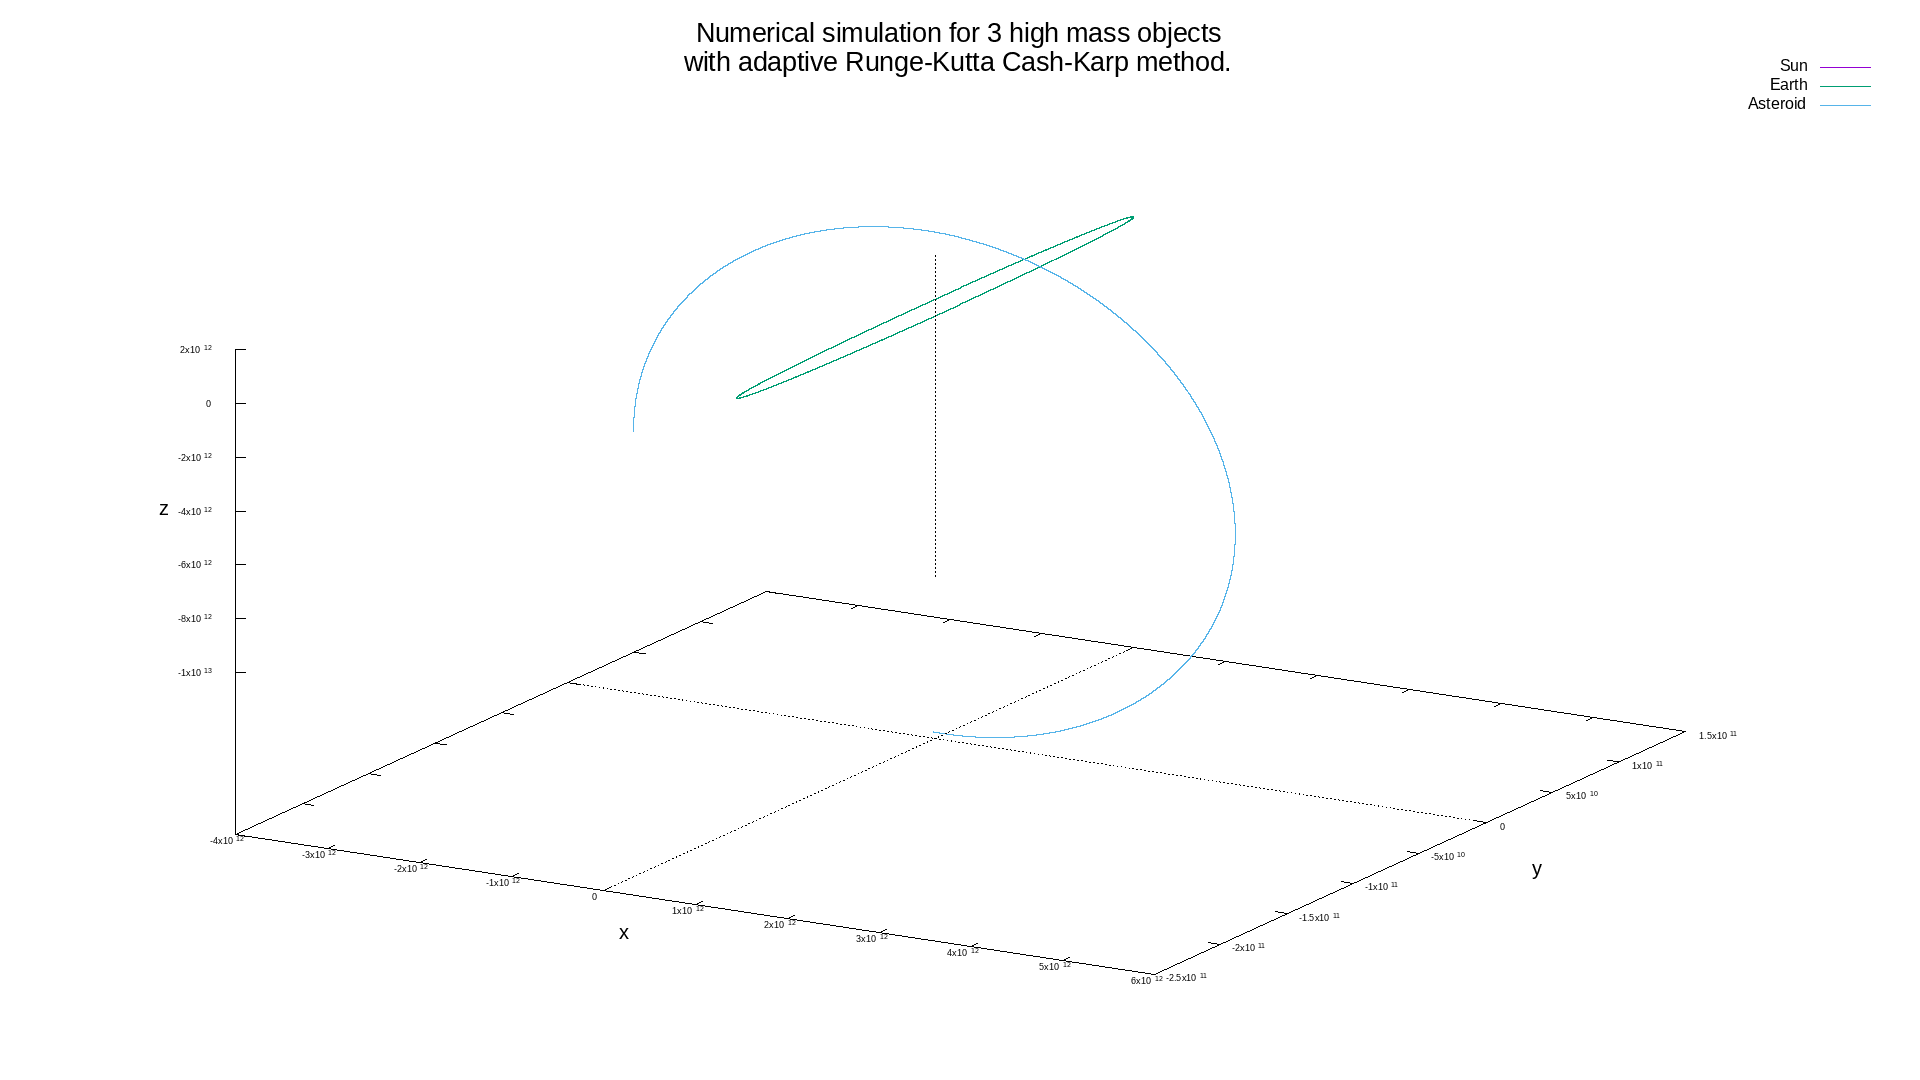
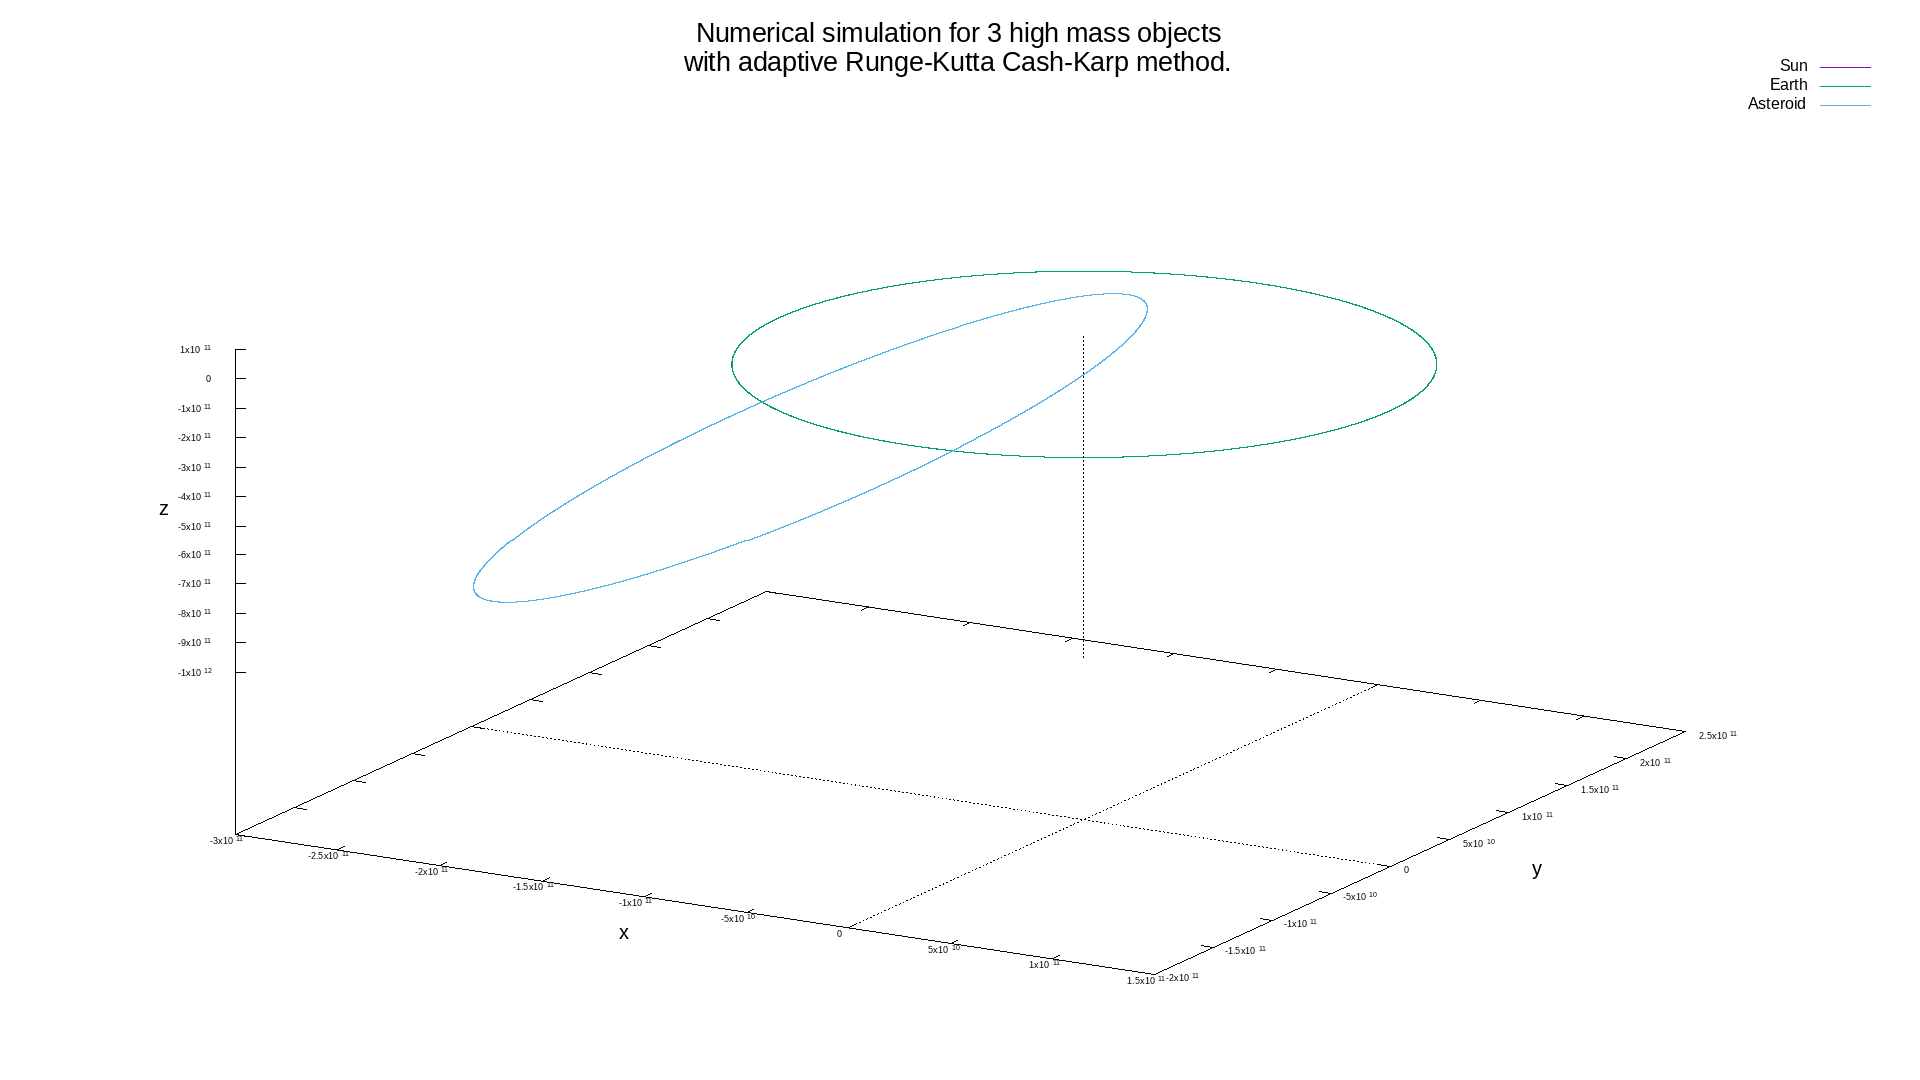
minor changes and closer asteroid

diff --git a/main.cpp b/main.cpp
@@ -1,6 +1,7 @@
 #include "state.hh"
 #include "num_int.hh"
 #include <chrono>
+#include <cstdio>
 
 //....oooOO0OOooo........oooOO0OOooo........oooOO0OOooo........oooOO0OOooo......oooOO0OOooo........oooOO0OOooo........oooOO0OOooo........oooOO0OOooo......
 
@@ -30,8 +31,8 @@ int main(int, char**)
     //average distance of Sun and Jupiter (m)
     const double JUPITER_AVG=7.785e11;
 
-    //average distance of Sun and the inner border of the Oort cloud (m)
-    const double ASTEROID_AVG=1e13;
+    //average distance of Sun and the asteroid (m)
+    const double ASTEROID_AVG=1e12;
 
 //....oooOO0OOooo........oooOO0OOooo........oooOO0OOooo........oooOO0OOooo......oooOO0OOooo........oooOO0OOooo........oooOO0OOooo........oooOO0OOooo......
 
@@ -50,24 +51,20 @@ int main(int, char**)
 
 //....oooOO0OOooo........oooOO0OOooo........oooOO0OOooo........oooOO0OOooo......oooOO0OOooo........oooOO0OOooo........oooOO0OOooo........oooOO0OOooo......
 
-    //2e3 m/s sets a relatively stable orbit for the asteroid
+    //5e3 m/s sets a relatively stable orbit for the asteroid
     //random perturbation will be added for this value
 
     //random number generation
     std::random_device rd{};
     std::mt19937 gen(rd());
-    std::normal_distribution<double> distr(-1000.,-750.);
+    std::normal_distribution<double> distr(-1500.,-2500.);
     const double ASTEROID_V_perturbation=distr(gen);
+    const vector3<double> ASTEROID_V=(ASTEROID_V_perturbation+5e3)*perp_unit_vec(ASTEROID_R);
 
-    //const double ASTEROID_V_perturbation=-1500;
-    const vector3<double> ASTEROID_V=(ASTEROID_V_perturbation+2e3)*perp_unit_vec(ASTEROID_R);
-
-    //const vector3<double> ASTEROID_V{0.,0.,0.};
-    
 //....oooOO0OOooo........oooOO0OOooo........oooOO0OOooo........oooOO0OOooo......oooOO0OOooo........oooOO0OOooo........oooOO0OOooo........oooOO0OOooo......
 
     //RHS for Sun-Earth-Asteroid
-    auto armageddon3=[&](double t,state3<double> s)->state3<double>
+    auto armageddon3=[&](double,state3<double> s)->state3<double>
     {
         double SunToEarth=cube_length_diff(s.SUN_R,s.EARTH_R);
         double SunToAsteroid=cube_length_diff(s.SUN_R,s.ASTEROID_R);
@@ -84,7 +81,7 @@ int main(int, char**)
     };
 
     //RHS for Sun-Earth-Jupiter-asteroid
-    auto armageddon4=[&](double t,state4<double> s)->state4<double>
+    auto armageddon4=[&](double,state4<double> s)->state4<double>
     {
         double SunToEarth=cube_length_diff(s.SUN_R,s.EARTH_R);
         double SunToAsteroid=cube_length_diff(s.SUN_R,s.ASTEROID_R);
@@ -142,7 +139,26 @@ int main(int, char**)
         file<<dt<<" ";
         file<<t<<"\n";
     };
-    
+
+//....oooOO0OOooo........oooOO0OOooo........oooOO0OOooo........oooOO0OOooo......oooOO0OOooo........oooOO0OOooo........oooOO0OOooo........oooOO0OOooo......
+/*
+    //distance statistics
+    auto dist4=[&](double t,state4<double> const& s,double)
+    {
+        std::ofstream file;
+        file.open("dist4.txt",std::fstream::app);
+        file<<t<<" ";
+        file<<length(s.ASTEROID_R-s.EARTH_R)<<"\n";
+    };
+
+    auto dist3=[&](double t,state3<double> const& s,double)
+    {
+        std::ofstream file;
+        file.open("dist3.txt",std::fstream::app);
+        file<<t<<" ";
+        file<<length(s.ASTEROID_R-s.EARTH_R)<<"\n";
+    };
+*/
 //....oooOO0OOooo........oooOO0OOooo........oooOO0OOooo........oooOO0OOooo......oooOO0OOooo........oooOO0OOooo........oooOO0OOooo........oooOO0OOooo......
 
     //checking  for collisions
@@ -151,13 +167,13 @@ int main(int, char**)
         double lEA=length(s.EARTH_R-s.ASTEROID_R);
         double lSA=length(s.SUN_R-s.ASTEROID_R);
         //Earth-Moon
-        if(lEA<100*3.844e8)
+        if(lEA<10*3.844e8)
         {
             std::cout<<"Collision will happen with the Earth.\nCall Bruce Willis ASAP.\nEnd of simulation."<<std::endl;
             return true;
         }
         //Radius of Sun
-        if(lSA<100*6.96342e8)
+        if(lSA<10*6.96342e8)
         {
             std::cout<<"Collision will happen with the Sun.\nGoodbye Mr. Asteroid.\nEnd of simulation."<<std::endl;
             return true;
@@ -176,19 +192,19 @@ int main(int, char**)
         double lSA=length(s.SUN_R-s.ASTEROID_R);
         double lJA=length(s.JUPITER_R-s.ASTEROID_R);
         //Earth-Moon
-        if(lEA<100*3.844e8)
+        if(lEA<10*3.844e8)
         {
             std::cout<<"Collision will happen with the Earth.\nCall Bruce Willis ASAP.\nEnd of simulation."<<std::endl;
             return true;
         }
         //Jupiter-Callisto
-        if(lJA<100*1.88e9)
+        if(lJA<10*1.88e9)
         {
             std::cout<<"Collision will happen with Jupiter.\nThank you bro.\nEnd of simulation."<<std::endl;
             return true;
         }
         //Radius of Sun        
-        if(lSA<100*6.96342e8)
+        if(lSA<10*6.96342e8)
         {
             std::cout<<"Collision will happen with the Sun.\nGoodbye Mr. Asteroid.\nEnd of simulation."<<std::endl;
             return true;
@@ -208,11 +224,18 @@ int main(int, char**)
 
     //integration of ODEs
     const double t0=0.;
-    const double t1=5e9;
+    const double t1=1e9;
     const double h=1e3;
     const double delta0=1e-8;
 
 //....oooOO0OOooo........oooOO0OOooo........oooOO0OOooo........oooOO0OOooo......oooOO0OOooo........oooOO0OOooo........oooOO0OOooo........oooOO0OOooo......
+
+    std::remove("armageddon4.txt");
+    std::remove("armageddon3.txt");
+    std::remove("armageddon4.png");
+    std::remove("armageddon3.png");
+    std::remove("dist4.txt");
+    std::remove("dist3.txt");
 
     //clock0
     auto clock0=std::chrono::high_resolution_clock::now();
@@ -241,8 +264,6 @@ int main(int, char**)
     //"measuring" time
     double time_clock3=(static_cast<std::chrono::duration<double,std::milli>>(clock3-clock2)).count();
     std::cout<<"Overall integration time for 3 planets: "<<time_clock3<<" ms."<<std::endl;
-
-
 
     return 0;
 }
